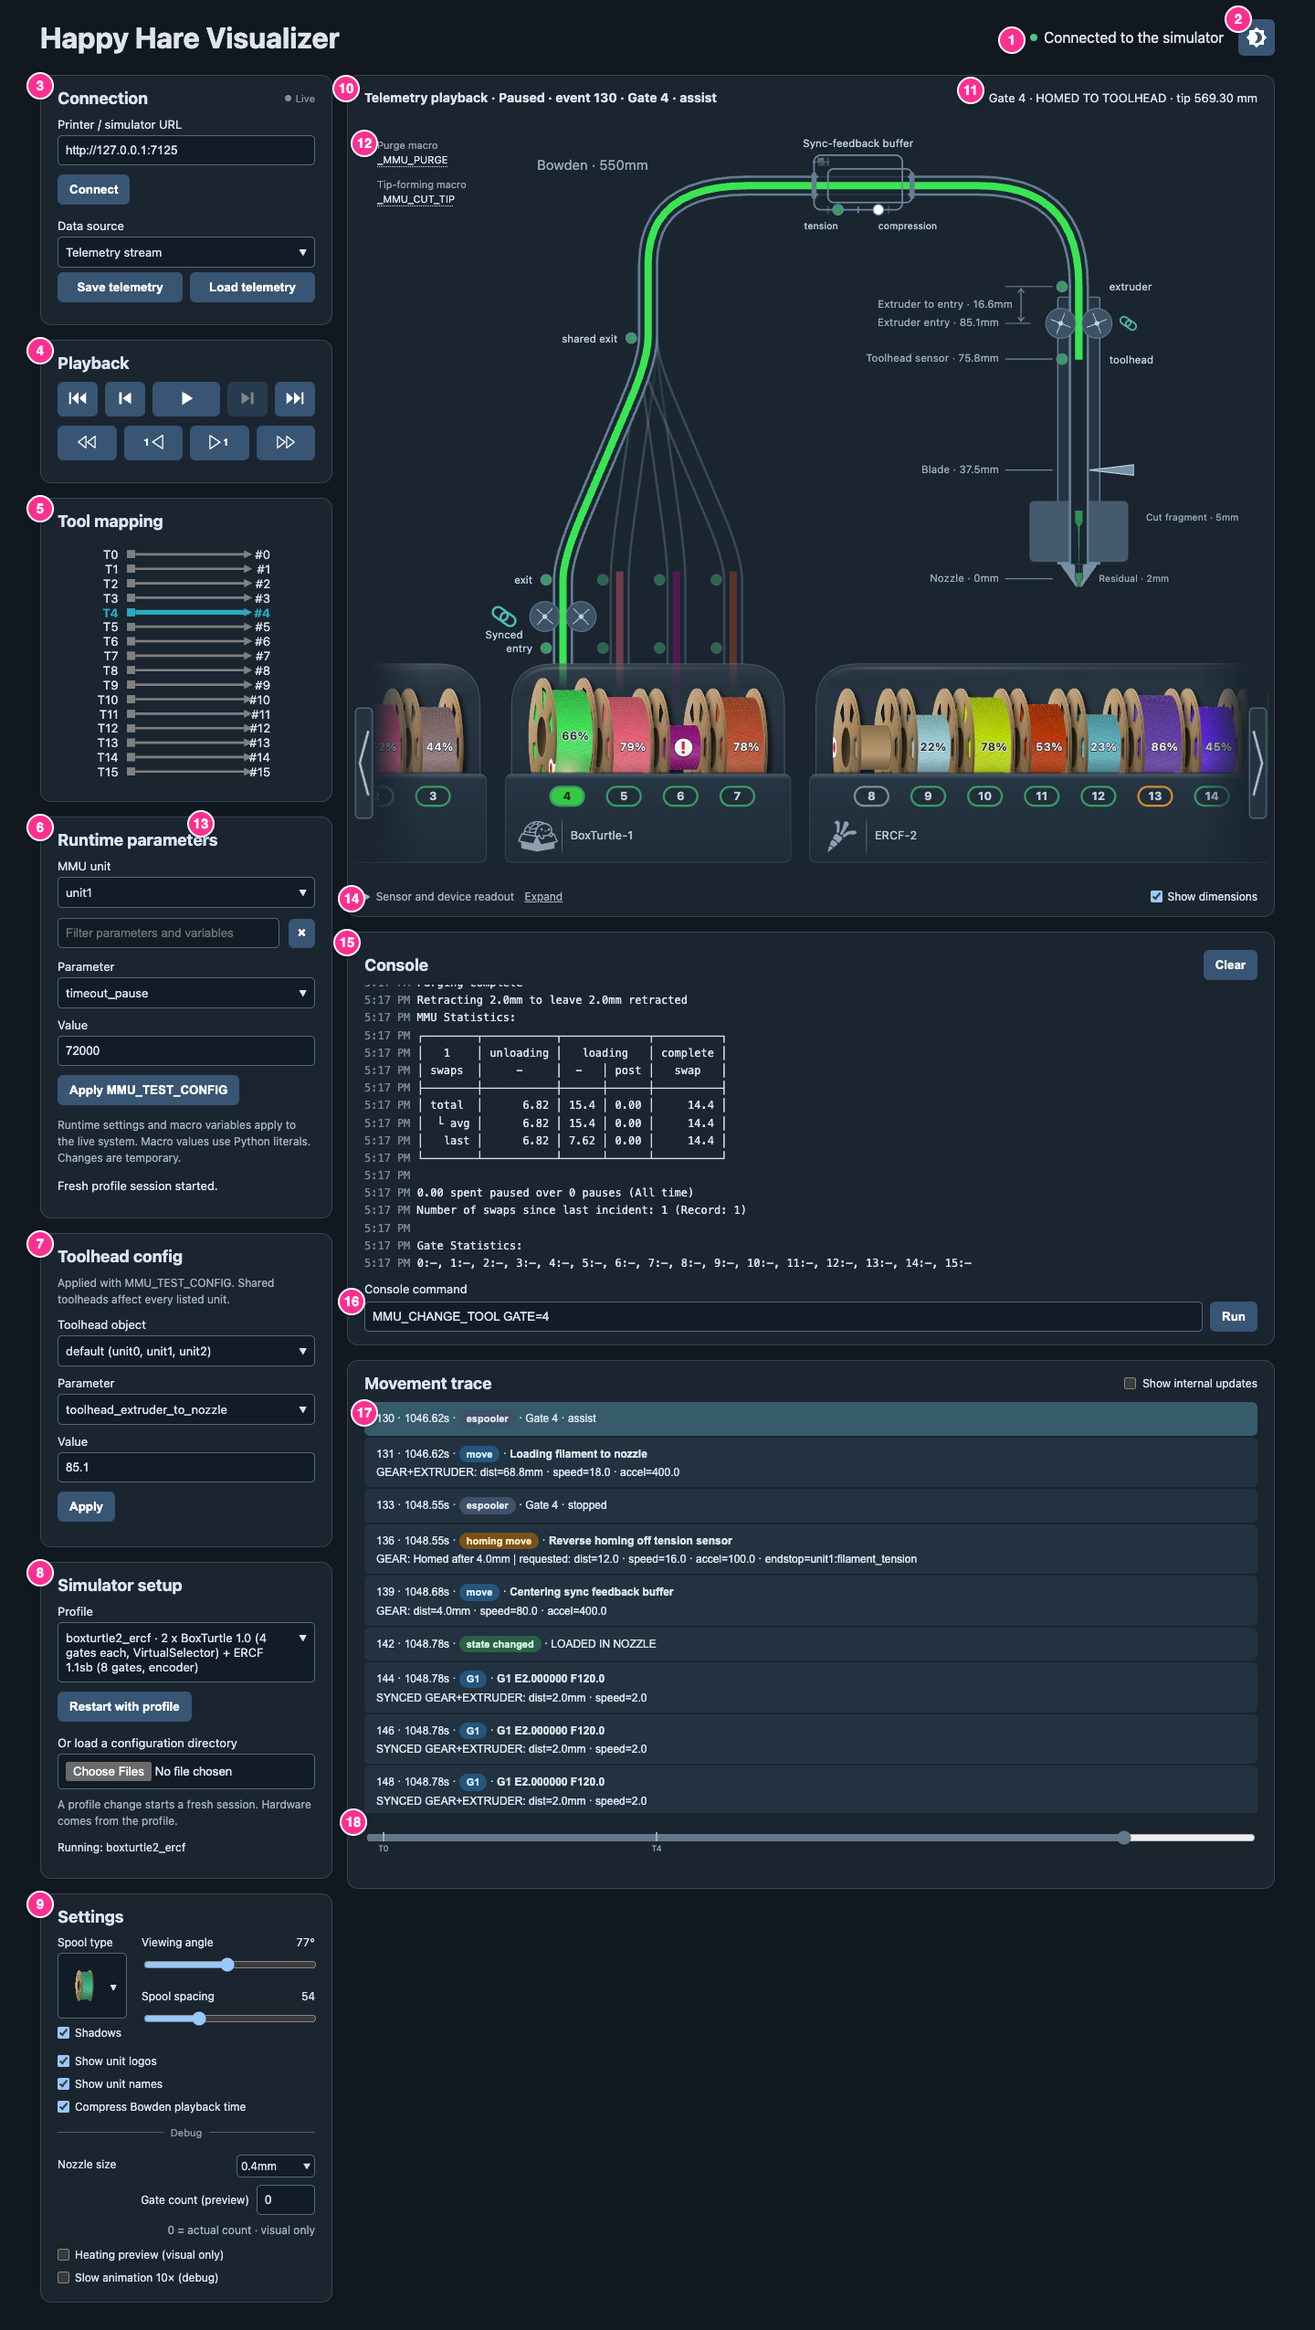
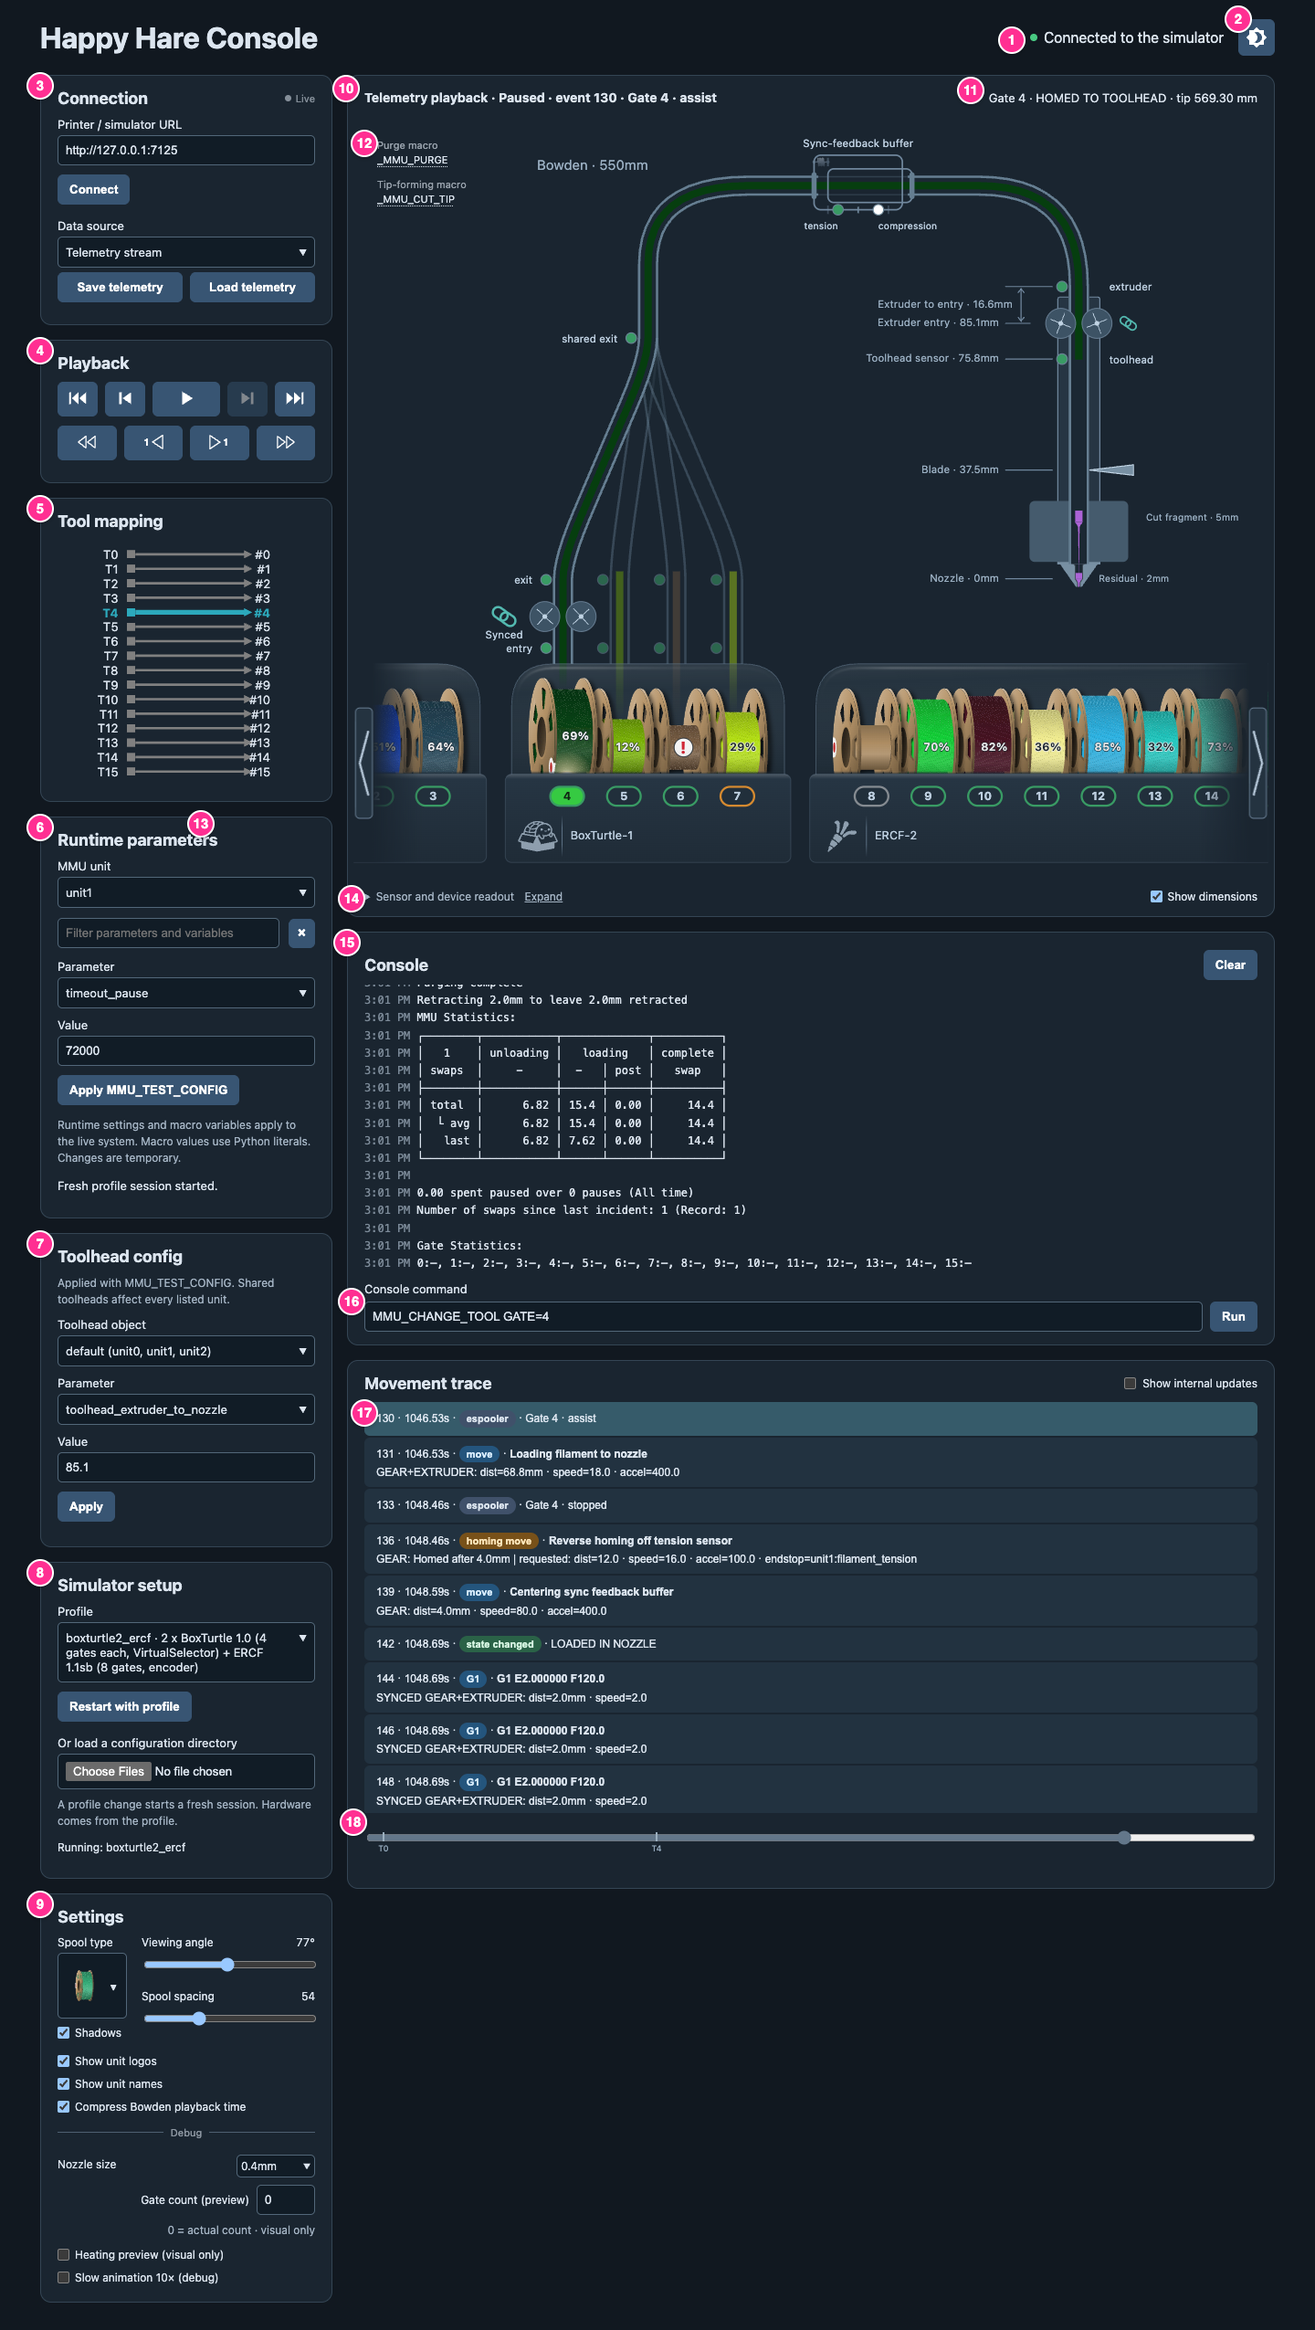
docs(console): the Console is its own project with its own installer
Install from the Happy-Hare-Console repository (install.sh, update manager entry, options) instead of install.sh -w, serve it from a sibling checkout in the simulator at /sim/console/, drop the Visualizer name, and recapture the screenshots that showed the old title. Renames the capture tooling to capture_console.mjs.

diff --git a/doc_tools/assemble_clip.py b/doc_tools/assemble_clip.py
@@ -1,6 +1,6 @@
 # Happy Hare documentation tooling
 #
-# Turns the timestamped screencast frames written by capture_viewer.mjs into a small
+# Turns the timestamped screencast frames written by capture_console.mjs into a small
 # looping animated WebP: crop to a region, scale down, resample to a fixed rate, and
 # merge runs of identical frames into one longer frame so a mostly-still scene costs
 # almost nothing.

diff --git a/doc/Happy-Hare-Console.md b/doc/Happy-Hare-Console.md
@@ -6,48 +6,108 @@ move, with a step-by-step trace beside it. It follows the printer live, replays 
 toolchange you have just run, or opens a recording someone saved earlier. You can also
 drive the MMU from it: click a spool for a menu of load, unload, select and more.
 
-!!! note "Console, Visualizer and the simulator's console"
-    The app's own page title is **Happy Hare Visualizer**; this documentation calls it the
-    Happy Hare Console. It is not the terminal that `make console` starts for the
-    [simulator](Dev-Simulator.md) (though the simulator serves the app, see below), and not the
-    "Console" card inside the app, which is a small command window.
+!!! note "Not the simulator's console"
+    This is not the terminal that `make console` starts for the [simulator](Dev-Simulator.md),
+    although the simulator can serve the Console for you (see
+    [below](#trying-it-without-a-printer)). Nor is it the small "Console" card inside the app, which
+    is a command window.
 
-It is fed by [telemetry](Feature-Telemetry.md). Read that page for how recordings are made and
-for using the Console to [set up and debug](Feature-Telemetry.md#tuning) your configuration.
+The Console is a separate project with its own repository,
+[Happy-Hare-Console](https://github.com/moggieuk/Happy-Hare-Console), installed beside Happy Hare, Mainsail
+and Fluidd. It is fed by [telemetry](Feature-Telemetry.md): read that page for how recordings are made and for
+using the Console to [set up and debug](Feature-Telemetry.md#tuning) your configuration.
 
 ## Installing it on your printer
 
-From the Happy Hare directory on the printer:
+### What you need
+
+- A printer running Klipper, Moonraker and Happy Hare v4.
+- **nginx**, which Mainsail and Fluidd images already include.
+- For animated movement, a Happy Hare version with
+  [motion telemetry](Feature-Telemetry.md) (newer than v4.2.0) and Happy Hare's `[mmu_telemetry]` Moonraker
+  component, see [Telemetry: Moonraker Setup](Feature-Telemetry.md#moonraker-setup). Without telemetry the Console
+  still follows the printer's live status, and it can still play saved recordings.
+
+### Install
+
+On the printer:
 
 ```bash
-./install.sh -w
+cd ~
+git clone https://github.com/moggieuk/Happy-Hare-Console.git
+cd Happy-Hare-Console
+./install.sh
 ```
 
-This adds an nginx site of its own, beside Mainsail or Fluidd, and prints its address - the first
-free port from 8090, for example `http://<printer>:8090/`. The site serves the app from the Happy Hare
-folder and passes the Moonraker connection through, exactly as Mainsail's site does, so nothing needs
-adding to Moonraker's `cors_domains`.
+The installer does two things and prints the Console's address when it finishes:
 
-- It asks before using `sudo`, tests the nginx configuration before reloading, and puts the previous
-  configuration back if nginx rejects the change.
-- Re-running it keeps the same port. Choose another with `VISUALIZER_PORT=9000 ./install.sh -w`, or point it at a
-  Moonraker on another port with `UPSTREAM_PORT=7126 ./install.sh -w`.
-- `./install.sh -u` removes the site along with Happy Hare. Updates need nothing extra: the app is part of the
-  Happy Hare folder, so a normal update refreshes it.
-- nginx must already be installed (Mainsail and Fluidd images include it). If it is missing, the step says so and
-  changes nothing.
-- A **403** page usually means nginx cannot read your home directory. Allow it to be traversed with `chmod o+x ~`.
-- The site exposes the same Moonraker API as Mainsail's own port, and Moonraker's authorization rules apply.
+1. **Adds an nginx site of its own**, beside Mainsail or Fluidd, on the first free port from 8090 (for example
+   `http://<printer>:8090/`). The site serves the Console and passes the Moonraker connection through, exactly as
+   Mainsail's site does, so the page and the API share an origin and nothing needs adding to Moonraker's
+   `cors_domains`.
+2. **Registers the checkout with Moonraker's update manager**, so the Console appears in the update list of Mainsail and
+   Fluidd. Restart Moonraker once to see it there.
 
-Any other static web host also works, provided the page can reach Moonraker and the host is allowed by
-Moonraker's `cors_domains`.
+It asks before using `sudo`, tests the nginx configuration before reloading, and puts the previous configuration back
+if nginx rejects the change. Running it again keeps the same port.
 
-Telemetry needs the `[mmu_telemetry]` Moonraker component, which the installer adds - see
-[Telemetry: Moonraker Setup](Feature-Telemetry.md#moonraker-setup). Without it the Console still works in
-live-status mode, and you can still open saved recordings.
+| Option | Does |
+|---|---|
+| `-p <port>` | First port to try for the Console (default 8090) |
+| `-m <port>` | Moonraker's port (default 7125) |
+| `-c <dir>` | Klipper config directory holding `moonraker.conf` (default `~/printer_data/config`) |
+| `-y` | Answer yes to the prompt |
+| `-u` | Uninstall |
 
-To try the Console with no printer, run the [simulator](Dev-Simulator.md#the-happy-hare-console-in-the-simulator): it serves the
-app itself.
+The installer does not belong to Happy Hare: it is not part of `./install.sh` in the Happy Hare directory, and Happy Hare's
+own installer does not install, update or remove it.
+
+### Updating
+
+Use the update manager in Mainsail or Fluidd, or run `git pull` in the `Happy-Hare-Console` folder. The site serves the folder
+directly, so there is nothing to reinstall. The entry the installer adds to `moonraker.conf`:
+
+```ini
+[update_manager happy-hare-console]
+type: git_repo
+path: ~/Happy-Hare-Console
+origin: https://github.com/moggieuk/Happy-Hare-Console.git
+primary_branch: main
+is_system_service: False
+```
+
+Updating Happy Hare and updating the Console are independent. If a new Console expects something a
+newer Happy Hare provides, update both.
+
+### Uninstalling
+
+```bash
+cd ~/Happy-Hare-Console
+./install.sh -u
+```
+
+This removes the nginx site and the update manager entry. No other site is touched. Delete the folder afterwards if you no
+longer want it.
+
+### Troubleshooting the install
+
+- **nginx was not found.** The installer says so and changes nothing. Install nginx with your system's package manager, or
+  host the folder another way (below).
+- **The page shows a 403.** nginx cannot read the folder, usually because your home directory is private. Allow it to be
+  traversed with `chmod o+x ~`.
+- **Access.** The site exposes the same Moonraker API as Mainsail does on its port; Moonraker's authorization rules apply.
+
+### Other ways to host it
+
+Any static web server can serve the repository's `console/` folder. The page connects to Moonraker at its own origin, so either
+proxy Moonraker's paths as the repository's `nginx/happy-hare-console.conf` does, or set the connection address in the page
+and allow the page's host in Moonraker's `cors_domains`.
+
+### Trying it without a printer
+
+Load a saved recording (a `.jsonl` file) to play it with no printer at all. Or run the Happy Hare
+[simulator](Dev-Simulator.md#the-happy-hare-console-in-the-simulator), which serves the Console itself from a
+`Happy-Hare-Console` folder next to the Happy Hare checkout.
 
 ## The layout
 
@@ -332,7 +392,7 @@ are hidden on a printer:
 **The page loads but shows "Connecting".** The page cannot reach Moonraker. Check the address in
 **Printer / simulator URL**, and that Moonraker is running.
 
-**403 after `./install.sh -w`.** Run `chmod o+x ~`.
+**403 after installing.** Run `chmod o+x ~`.
 
 **Telemetry stream shows no steps.** The telemetry component is not loaded - see
 [Telemetry: Troubleshooting](Feature-Telemetry.md#troubleshooting).

diff --git a/doc/Dev-Simulator.md b/doc/Dev-Simulator.md
@@ -23,7 +23,9 @@ make console
 ```
 
 At an interactive terminal the simulator also serves the [Happy Hare Console](Happy-Hare-Console.md), a browser
-view of the same machine, at **<http://127.0.0.1:7125/sim/viewer/>**; the startup banner prints the exact address.
+view of the same machine, at **<http://127.0.0.1:7125/sim/console/>**; the startup banner prints the exact address. The Console is a separate
+project, [Happy-Hare-Console](https://github.com/moggieuk/Happy-Hare-Console), so it needs a one-time `git clone` next to
+your Happy Hare checkout (see [below](#the-happy-hare-console-in-the-simulator)).
 Open it beside the terminal and every command, whether typed here or sent from the page, is animated there. If port
 7125 is in use the simulator picks another and the banner and `/web` show it; `--serve PORT` chooses one and
 `--no-serve` turns the web API and the page off. See [below](#the-happy-hare-console-in-the-simulator).
@@ -343,7 +345,7 @@ it falls back to reprinting above each prompt.
 ### The Happy Hare Console in the simulator
 
 <p align="center">
-  <img src="Dev-Simulator/visualizer.png" alt="The Happy Hare Console connected to the simulator, a load in progress on a BoxTurtle gate" width="100%">
+  <img src="Dev-Simulator/console.png" alt="The Happy Hare Console connected to the simulator, a load in progress on a BoxTurtle gate" width="100%">
 </p>
 
 The page animates the simulated machine exactly as it would a printer, so it is the easiest way to see what a
@@ -351,7 +353,17 @@ configuration does, and to look at things the terminal cannot show: where the fi
 cutter or tip-forming sequence moves, which sensor stopped a homing move. Everything it can do is on the
 [Happy Hare Console](Happy-Hare-Console.md) page; what is specific to the simulator is below.
 
-- **Open it.** Browse to `http://127.0.0.1:7125/sim/viewer/` (the port shown at startup, or the one you gave
+- **Get the Console.** Clone it beside the Happy Hare checkout, so the folders sit side by side:
+
+  ```bash
+  cd ..   # the folder that holds Happy-Hare
+  git clone https://github.com/moggieuk/Happy-Hare-Console.git
+  ```
+
+  The simulator serves `../Happy-Hare-Console/console`. Keep the Console somewhere else by naming its `console` folder in
+  `HH_CONSOLE_DIR`. With neither present the address shows a short message with the `git clone` command; nothing is
+  downloaded for you. Update it with `git pull` in its folder.
+- **Open it.** Browse to `http://127.0.0.1:7125/sim/console/` (the port shown at startup, or the one you gave
   `--serve`). It connects to the simulator that served it; to look at a different one, change the URL in the
   **Connection** panel and press **Connect**.
 - **Run commands from either place.** The page's command box and the gate menu send commands to the same session as

diff --git a/doc_tools/README.md b/doc_tools/README.md
@@ -509,12 +509,12 @@ The images and clips on [Happy Hare Console](../doc/Happy-Hare-Console.md),
 [Telemetry](../doc/Feature-Telemetry.md) and the Console section of
 [The Simulator](../doc/Dev-Simulator.md) come from the Happy Hare simulator driving the real
 Console web app. They are not regenerated by `make shots`; recapture them with
-`doc_tools/capture_viewer.mjs`, which needs Node 22+, Google Chrome (set `CHROME_PATH` if it is
+`doc_tools/capture_console.mjs`, which needs Node 22+, Google Chrome (set `CHROME_PATH` if it is
 not in `/Applications`) and the docs venv (Pillow encodes the clips; set `PYTHON` to use another).
 
-1. From a Happy Hare checkout at the ref the images were taken from (feat/viewer at 80a462d5, the
-   Visualizer pull request, when this was written), start the simulator with a fixed seed so the
-   gate maps repeat:
+1. From a Happy Hare checkout on `development`, with the
+   [Happy-Hare-Console](https://github.com/moggieuk/Happy-Hare-Console) repository cloned beside it (or
+   `HH_CONSOLE_DIR` set), start the simulator with a fixed seed so the gate maps repeat:
 
    ```bash
    make console ARGS='--profile boxturtle2_ercf --seed 7028'
@@ -523,8 +523,8 @@ not in `/Applications`) and the docs venv (Pillow encodes the clips; set `PYTHON
 2. From this repository, capture everything, or name recipes with `--only` (`--list` shows them):
 
    ```bash
-   node doc_tools/capture_viewer.mjs
-   node doc_tools/capture_viewer.mjs --only clip-cut-outside,shots-console
+   node doc_tools/capture_console.mjs
+   node doc_tools/capture_console.mjs --only clip-cut-outside,shots-console
    ```
 
 Each recipe restarts the simulator on the profile it needs through the app's own **Simulator

diff --git a/doc/Release-Notes.md b/doc/Release-Notes.md
@@ -317,6 +317,6 @@ and the [development-only comparison](https://github.com/moggieuk/Happy-Hare/com
 
 - Add [motion telemetry](Feature-Telemetry.md): Happy Hare records what the MMU does and a Moonraker component (`[mmu_telemetry]`, Moonraker v0.9.0 or later) relays and records it. Control recording with [`MMU_TELEMETRY`](Reference-Commands.md#mmu_telemetry) `MODE=off|on|toolchange` or the `default_telemetry_mode` option (default `off`), and read it as `printer.mmu.telemetry_mode`. Adds the `homing` and `config_changes` status keys and records the servo cutter at the MMU. Re-run the installer and restart Klipper and Moonraker when upgrading. The `log_level` 4 (developer) level is removed: a saved `4` still loads and logs as trace. ([#1480](https://github.com/moggieuk/Happy-Hare/pull/1480))
 
-- Add the [Happy Hare Console](Happy-Hare-Console.md), a browser app that animates the MMU live or from a saved telemetry recording, installed with `./install.sh -w`, and served by the [simulator](Dev-Simulator.md#the-happy-hare-console-in-the-simulator). ([#1531](https://github.com/moggieuk/Happy-Hare/pull/1531))
+- Add the [Happy Hare Console](Happy-Hare-Console.md), a browser app that animates the MMU live or from a saved telemetry recording, a separate project ([Happy-Hare-Console](https://github.com/moggieuk/Happy-Hare-Console)) with its own installer (an nginx site beside Mainsail or Fluidd, plus a Moonraker update manager entry), see [Installing it on your printer](Happy-Hare-Console.md#installing-it-on-your-printer). The [simulator](Dev-Simulator.md#the-happy-hare-console-in-the-simulator) serves it from a checkout beside Happy Hare. ([#1531](https://github.com/moggieuk/Happy-Hare/pull/1531))
 
 ---

diff --git a/doc/Feature-Telemetry.md b/doc/Feature-Telemetry.md
@@ -18,7 +18,8 @@ Klipper (Happy Hare)  ->  Moonraker  ->  a viewer
                           records them    recording
 ```
 
-The viewer is the [Happy Hare Console](Happy-Hare-Console.md): a browser app that
+The viewer is the [Happy Hare Console](Happy-Hare-Console.md), a browser app installed
+separately ([installation](Happy-Hare-Console.md#installing-it-on-your-printer)) that
 turns the stream into an animated picture of the filament path, with a step-by-step
 trace underneath. Nothing about telemetry changes how Happy Hare moves filament -
 it only observes.
@@ -219,7 +220,7 @@ Start it again with `MMU_TELEMETRY MODE=on`.
 
 ## See also
 
-- [Happy Hare Console](Happy-Hare-Console.md) - installation and everything the viewer can do
+- [Happy Hare Console](Happy-Hare-Console.md) - installation and everything the Console can do
 - [The Simulator](Dev-Simulator.md) - try the Console without a printer
 - [Printer Variable Reference](Reference-Printer-Variables.md)
 - [`MMU_TELEMETRY`](Reference-Commands.md#mmu_telemetry)
